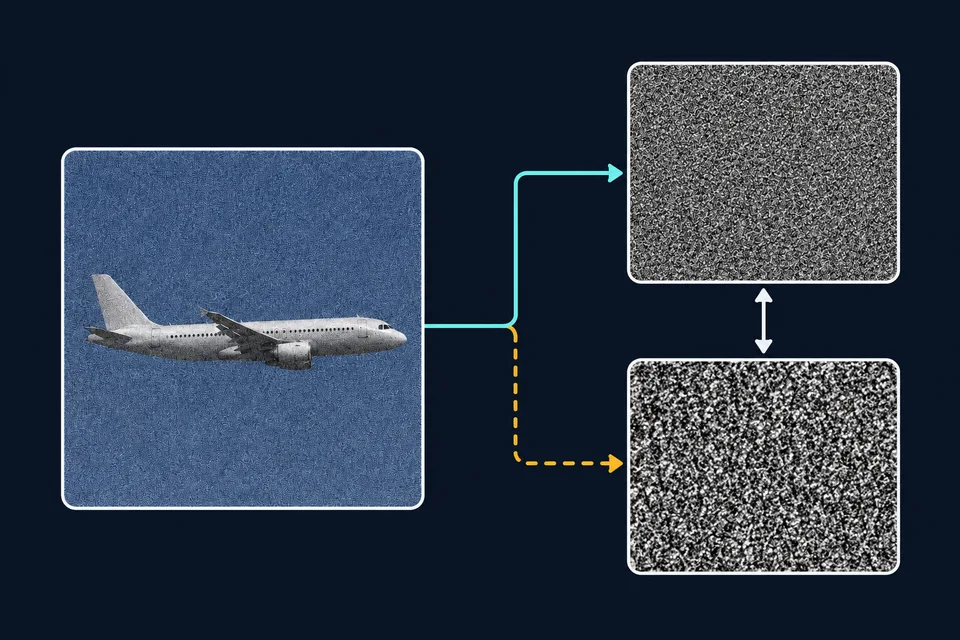
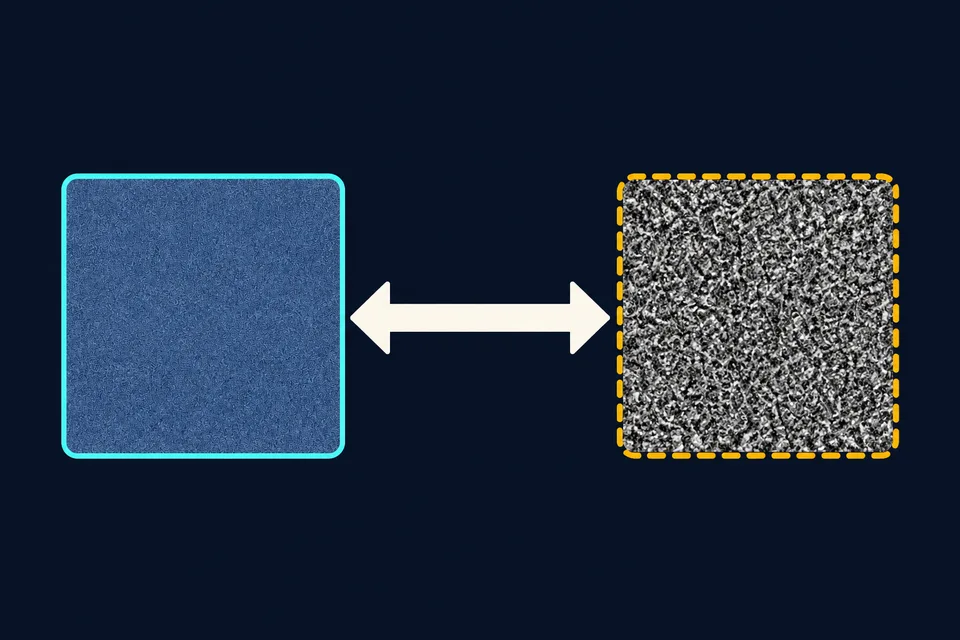
Explain separation and threshold decisions visually

diff --git a/src/components/SeparationLoss.tsx b/src/components/SeparationLoss.tsx
@@ -1,6 +1,5 @@
 'use client'
 
-import { OodScoreHistogram } from '@/components/HeroSignal'
 import ResearchFigure from '@/components/ResearchFigure'
 import { useI18n, type TranslationMap } from '@/lib/i18n'
 import { CIFAR_LAMBDA_SWEEP } from '@/lib/ood-explorer-data'
@@ -36,19 +35,22 @@ const copy = {
   predict: { en: 'Predict the noise twice', de: 'Rauschen zweimal vorhersagen', fr: 'Prédire le bruit deux fois', es: 'Predecir el ruido dos veces', ar: 'تنبّأ بالضوضاء مرتين' },
   separate: { en: 'Separate the predictions', de: 'Vorhersagen trennen', fr: 'Séparer les prédictions', es: 'Separar las predicciones', ar: 'افصل بين التنبؤين' },
   decide: { en: 'Apply the threshold', de: 'Schwelle anwenden', fr: 'Appliquer le seuil', es: 'Aplicar el umbral', ar: 'طبّق العتبة' },
-  chartCaption: {
-    en: 'Recorded scores · seed 42',
-    de: 'Aufgezeichnete Scores · Seed 42',
-    fr: 'Scores enregistrés · graine 42',
-    es: 'Puntuaciones registradas · semilla 42',
-    ar: 'الدرجات المسجلة · البذرة 42',
+  score: { en: 'Anomaly score', de: 'Anomaliewert', fr: 'Score d’anomalie', es: 'Puntuación de anomalía', ar: 'درجة الشذوذ' },
+  compare: {
+    en: 'Compare with threshold',
+    de: 'Mit Schwelle vergleichen',
+    fr: 'Comparer au seuil',
+    es: 'Comparar con el umbral',
+    ar: 'قارن بالعتبة',
   },
+  familiar: { en: 'Familiar', de: 'Vertraut', fr: 'Familière', es: 'Familiar', ar: 'مألوفة' },
+  unfamiliar: { en: 'Flag as unfamiliar', de: 'Als unbekannt markieren', fr: 'Signaler comme inconnue', es: 'Marcar como desconocida', ar: 'صنّفها كغير مألوفة' },
   decision: {
-    en: 'A score at or above the calibrated threshold is flagged as unfamiliar. The shaded overlap shows where either group can produce similar scores.',
-    de: 'Ein Wert ab der kalibrierten Schwelle wird als unbekannt markiert. Die schattierte Überlappung zeigt, wo beide Gruppen ähnliche Werte erzielen können.',
-    fr: 'Un score égal ou supérieur au seuil calibré signale une image inconnue. La zone ombrée indique où les deux groupes peuvent obtenir des scores similaires.',
-    es: 'Una puntuación igual o superior al umbral calibrado señala una imagen desconocida. La zona sombreada muestra dónde ambos grupos pueden obtener puntuaciones similares.',
-    ar: 'تُصنَّف الصورة على أنها غير مألوفة إذا بلغت درجتها العتبة المعايرة أو تجاوزتها. وتوضح المنطقة المظللة أين يمكن أن تحصل المجموعتان على درجات متقاربة.',
+    en: 'Subtract the two noise prediction errors to get the score, then compare it with the calibrated threshold.',
+    de: 'Ziehe die beiden Fehler der Rauschvorhersage voneinander ab und vergleiche den Wert mit der kalibrierten Schwelle.',
+    fr: 'Soustraire les deux erreurs de prédiction du bruit pour obtenir le score, puis le comparer au seuil calibré.',
+    es: 'Resta los dos errores de predicción del ruido para obtener la puntuación y compárala con el umbral calibrado.',
+    ar: 'احسب الفرق بين خطأَي التنبؤ بالضوضاء للحصول على الدرجة، ثم قارنها بالعتبة المعايرة.',
   },
   details: { en: 'Technical details', de: 'Technische Details', fr: 'Détails techniques', es: 'Detalles técnicos', ar: 'التفاصيل التقنية' },
   symbols: {
@@ -101,10 +103,23 @@ export default function SeparationLoss() {
         ))}
         <li className="cd-rfc-decision">
           <h5>{t(copy.decide)}</h5>
-          <figure className="cd-rfc-chart">
-            <OodScoreHistogram showOverlap />
-            <figcaption>{t(copy.chartCaption)} · <bdi dir="ltr">CIFAR-10 · λ = 0.02 · K = 100</bdi></figcaption>
-          </figure>
+          <div className="cd-rfc-rule">
+            <div className="cd-rfc-score">
+              <span>{t(copy.score)}</span>
+              <bdi dir="ltr">e₀ − e₁</bdi>
+            </div>
+            <div className="cd-rfc-compare">{t(copy.compare)} <bdi>τ</bdi></div>
+            <div className="cd-rfc-outcomes">
+              <div>
+                <bdi dir="ltr">&lt; τ</bdi>
+                <span>{t(copy.familiar)}</span>
+              </div>
+              <div>
+                <bdi dir="ltr">≥ τ</bdi>
+                <span>{t(copy.unfamiliar)}</span>
+              </div>
+            </div>
+          </div>
           <p>{t(copy.decision)}</p>
         </li>
       </ol>
@@ -114,7 +129,7 @@ export default function SeparationLoss() {
           <summary>{t(copy.details)}</summary>
           <div className="cd-rfc-compact-formula" dir="ltr">
             <span>L<sub>total</sub> = L<sub>denoise</sub> + λ L<sub>sep</sub></span>
-            <span>s<sub>OOD</sub>(x) = e₀(x) − e₁(x) ≥ τ</span>
+            <span>s<sub>OOD</sub>(x) = e₀(x) − e₁(x)</span>
           </div>
           <p>{t(copy.symbols)}</p>
         </details>

diff --git a/src/components/HeroSignal.tsx b/src/components/HeroSignal.tsx
@@ -44,8 +44,6 @@ const copy = {
     ar: 'خارج التوزيع · 9 فئات أخرى',
   },
   threshold: { en: 'τ @ TPR 95', de: 'τ @ TPR 95', fr: 'τ @ TPR 95', es: 'τ @ TPR 95', ar: 'τ @ TPR 95' },
-  calibratedThreshold: { en: 'Calibrated threshold', de: 'Kalibrierte Schwelle', fr: 'Seuil calibré', es: 'Umbral calibrado', ar: 'العتبة المعايرة' },
-  overlap: { en: 'Score overlap', de: 'Überlappung', fr: 'Chevauchement', es: 'Solapamiento', ar: 'تداخل الدرجات' },
   axis: {
     en: 'anomaly score →',
     de: 'Anomaliescore →',
@@ -108,43 +106,12 @@ function stepArea(pct: readonly number[], yMax: number): string {
   return d
 }
 
-export function OodScoreHistogram({ showOverlap = false }: { showOverlap?: boolean }) {
+export default function HeroSignal() {
   const { lang, t } = useI18n()
   const ds = BENCHMARK_DATASETS.within_cifar
   const h = ds.histogram
   const yMax = Math.max(...h.id_pct, ...h.ood_pct)
   const tauX = PAD_X + ((ds.tauTpr95 - h.lo) / (h.hi - h.lo)) * (W - PAD_X * 2)
-
-  return (
-    <div dir="ltr">
-      <div className="cd-signal-plot">
-        <svg viewBox={`0 0 ${W} ${H}`} role="img" aria-label={t(copy.chartLabel)} preserveAspectRatio="none">
-          {[0.25, 0.5, 0.75].map((f) => (
-            <line key={f} x1={PAD_X} x2={W - PAD_X} y1={BASE - f * (BASE - 8)} y2={BASE - f * (BASE - 8)} className="cd-signal-grid" />
-          ))}
-          <rect x={tauX} y={0} width={W - PAD_X - tauX} height={BASE} className="cd-signal-flag" />
-          <path d={stepArea(h.ood_pct, yMax)} className="cd-signal-ood" />
-          <path d={stepArea(h.id_pct, yMax)} className="cd-signal-id" />
-          {showOverlap && <path d={stepArea(h.id_pct.map((value, index) => Math.min(value, h.ood_pct[index])), yMax)} className="cd-rfc-overlap" />}
-          <line x1={PAD_X} x2={W - PAD_X} y1={BASE} y2={BASE} className="cd-signal-axis" />
-          <line x1={tauX} x2={tauX} y1={2} y2={BASE} className="cd-signal-tau" />
-        </svg>
-        <span className="cd-signal-tau-label" style={{ left: `${(tauX / W) * 100}%` }}>{t(showOverlap ? copy.calibratedThreshold : copy.threshold)}</span>
-      </div>
-      <div className="cd-signal-axis-label">{t(copy.axis)}</div>
-
-      <ul className="cd-signal-legend" dir={showOverlap && lang === 'ar' ? 'rtl' : undefined}>
-        <li><span className="sw sw-id" aria-hidden="true" />{t(copy.id)}</li>
-        <li><span className="sw sw-ood" aria-hidden="true" />{t(copy.ood)}</li>
-        {showOverlap && <li><span className="sw sw-overlap" aria-hidden="true" />{t(copy.overlap)}</li>}
-      </ul>
-    </div>
-  )
-}
-
-export default function HeroSignal() {
-  const { lang, t } = useI18n()
-  const ds = BENCHMARK_DATASETS.within_cifar
 
   return (
     <figure className="cd-signal" dir="ltr">
@@ -157,7 +124,25 @@ export default function HeroSignal() {
       </div>
       <p className="cd-signal-title">{t(copy.title)}</p>
 
-      <OodScoreHistogram />
+      <div className="cd-signal-plot">
+        <svg viewBox={`0 0 ${W} ${H}`} role="img" aria-label={t(copy.chartLabel)} preserveAspectRatio="none">
+          {[0.25, 0.5, 0.75].map((f) => (
+            <line key={f} x1={PAD_X} x2={W - PAD_X} y1={BASE - f * (BASE - 8)} y2={BASE - f * (BASE - 8)} className="cd-signal-grid" />
+          ))}
+          <rect x={tauX} y={0} width={W - PAD_X - tauX} height={BASE} className="cd-signal-flag" />
+          <path d={stepArea(h.ood_pct, yMax)} className="cd-signal-ood" />
+          <path d={stepArea(h.id_pct, yMax)} className="cd-signal-id" />
+          <line x1={PAD_X} x2={W - PAD_X} y1={BASE} y2={BASE} className="cd-signal-axis" />
+          <line x1={tauX} x2={tauX} y1={2} y2={BASE} className="cd-signal-tau" />
+        </svg>
+        <span className="cd-signal-tau-label" style={{ left: `${(tauX / W) * 100}%` }}>{t(copy.threshold)}</span>
+      </div>
+      <div className="cd-signal-axis-label">{t(copy.axis)}</div>
+
+      <ul className="cd-signal-legend">
+        <li><span className="sw sw-id" aria-hidden="true" />{t(copy.id)}</li>
+        <li><span className="sw sw-ood" aria-hidden="true" />{t(copy.ood)}</li>
+      </ul>
 
       {SWEEP_002 && (
         <div className="cd-signal-mean">

diff --git a/src/app/globals.css b/src/app/globals.css
@@ -1343,7 +1343,7 @@ body::before {
 .cd-rfc-result > div:last-child dd { color: var(--cd-accent); }
 .cd-rfc-evidence > p { margin-block-start: 6px; color: var(--cd-fg2); font-size: 12px; }
 .cd-rfc-flow {
-  display: grid; grid-template-columns: repeat(2, minmax(0, 1fr)) minmax(0, 1.2fr); gap: 12px;
+  display: grid; grid-template-columns: repeat(3, minmax(0, 1fr)); gap: 12px;
   list-style: none; margin-block-end: 16px; padding: 0;
 }
 .cd-rfc-flow > li {
@@ -1369,19 +1369,54 @@ body::before {
   box-shadow: 0 0 0 2px var(--cd-accent), 0 14px 32px color-mix(in srgb, var(--cd-bg) 28%, transparent);
   transform: translateY(-2px);
 }
-.cd-rfc-chart {
-  min-width: 0; padding: 6px 10px 10px; border-radius: 6px;
-  border: 1px solid var(--cd-b0); background: var(--cd-bg);
+.cd-rfc-rule {
+  display: grid; align-content: center; justify-items: center;
+  inline-size: 100%; min-inline-size: 0; aspect-ratio: 3 / 2;
+  padding: 12px 8px; text-align: center;
+  border: 1px solid var(--cd-b0); border-radius: 6px; background: var(--cd-bg);
+  font-size: 12px; line-height: 1.35; color: var(--cd-fg1);
 }
-.cd-rfc-chart .cd-signal-plot svg { height: clamp(94px, 10vw, 130px); }
-.cd-rfc-chart .cd-signal-id, .cd-rfc-chart .cd-signal-ood, .cd-rfc-chart .cd-signal-flag { animation: none; }
-.cd-rfc-chart .cd-signal-ood { stroke-dasharray: 4 2; }
-.cd-rfc-chart .cd-signal-legend { gap: 4px 8px; margin: 6px 0; font-size: 11px; }
-.cd-rfc-chart .sw-ood { border-style: dashed; }
-.cd-rfc-overlap { fill: color-mix(in srgb, var(--cd-fg1) 55%, transparent); }
-.cd-rfc-chart .sw-overlap { border-color: var(--cd-fg2); background: color-mix(in srgb, var(--cd-fg1) 55%, transparent); }
-.cd-rfc-chart figcaption { color: var(--cd-fg2); font-size: 11px; line-height: 1.5; }
-.cd-rfc-chart figcaption bdi { white-space: nowrap; }
+.cd-rfc-rule bdi {
+  font-family: var(--font-mono, 'JetBrains Mono', monospace);
+  font-weight: 650; white-space: nowrap;
+}
+.cd-rfc-score {
+  display: grid; gap: 2px; padding: 6px 14px;
+  border: 1px solid var(--cd-b1); border-radius: 6px; background: var(--cd-surf);
+  color: var(--cd-fg2);
+}
+.cd-rfc-score bdi { color: var(--cd-fg1); font-size: 16px; }
+.cd-rfc-compare {
+  display: grid; grid-auto-flow: column; align-items: baseline; gap: 4px;
+  position: relative; margin-block: 10px; padding: 5px 8px;
+  border: 1px solid var(--cd-b1); border-radius: 6px; background: var(--cd-surf);
+}
+.cd-rfc-compare::before,
+.cd-rfc-compare::after,
+.cd-rfc-outcomes > div::before {
+  content: ''; position: absolute; inset-inline-start: calc(50% - 0.5px);
+  inline-size: 1px; block-size: 11px; background: var(--cd-fg3);
+}
+.cd-rfc-compare::before, .cd-rfc-outcomes > div::before { inset-block-end: 100%; }
+.cd-rfc-compare::after { inset-block-start: 100%; }
+.cd-rfc-outcomes {
+  position: relative; display: grid; grid-template-columns: repeat(2, minmax(0, 1fr));
+  inline-size: min(100%, 26rem); padding-block-start: 10px;
+}
+.cd-rfc-outcomes::before {
+  content: ''; position: absolute; inset-block-start: 0; inset-inline: 25%;
+  border-block-start: 1px solid var(--cd-fg3);
+}
+.cd-rfc-outcomes > div {
+  --outcome-color: var(--cd-accent);
+  position: relative; display: grid; align-content: start; gap: 3px;
+  margin-inline: 4px; padding: 6px 4px;
+  border: 1px solid color-mix(in srgb, var(--outcome-color) 55%, var(--cd-b1)); border-radius: 6px;
+  background: color-mix(in srgb, var(--outcome-color) 7%, var(--cd-bg));
+  overflow-wrap: anywhere;
+}
+.cd-rfc-outcomes > div:last-child { --outcome-color: var(--cd-warn); }
+.cd-rfc-outcomes bdi { color: var(--outcome-color); font-size: 15px; }
 .cd-rfc-actions { display: grid; gap: 12px; justify-items: start; }
 .cd-rfc-actions details { max-width: 100%; color: var(--cd-fg2); font-size: 13px; }
 .cd-rfc-actions summary { cursor: pointer; color: var(--cd-fg1); font-weight: 600; }
@@ -1396,6 +1431,7 @@ body::before {
 @media (min-width: 769px) and (max-width: 960px) {
   .cd-rfc-flow { grid-template-columns: repeat(2, minmax(0, 1fr)); }
   .cd-rfc-decision { grid-column: 1 / -1; }
+  .cd-rfc-rule { aspect-ratio: auto; }
 }
 
 /* ── WRITING SECTION ── */

diff --git a/src/lib/research-figures.ts b/src/lib/research-figures.ts
@@ -126,11 +126,11 @@ export const separationIllustrations = [
     width: 960,
     height: 640,
     alt: {
-      en: 'A double-headed arrow marks a widening gap between the two noise predictions for the same airplane image.',
-      de: 'Ein Doppelpfeil zeigt den größer werdenden Abstand zwischen den beiden Rauschvorhersagen für dasselbe Flugzeugbild.',
-      fr: 'Une flèche à deux pointes montre l’écart croissant entre les deux prédictions de bruit pour la même image d’avion.',
-      es: 'Una flecha de doble punta muestra la distancia creciente entre las dos predicciones de ruido para la misma imagen del avión.',
-      ar: 'يشير سهم برأسين إلى اتساع المسافة بين تنبؤي الضوضاء للصورة نفسها.',
+      en: 'Two noise patterns sit side by side with a large horizontal arrow pointing outward toward both patterns, showing the growing difference.',
+      de: 'Zwei Rauschmuster stehen nebeneinander. Ein großer waagerechter Doppelpfeil zeigt den wachsenden Abstand zwischen ihnen.',
+      fr: 'Deux motifs de bruit sont côte à côte. Une grande flèche horizontale à deux pointes montre l’écart croissant entre eux.',
+      es: 'Dos patrones de ruido aparecen lado a lado. Una gran flecha horizontal de doble punta muestra la separación creciente.',
+      ar: 'يظهر نمطان من الضوضاء جنبًا إلى جنب، وبينهما سهم أفقي كبير برأسين يوضح اتساع الفرق بينهما.',
     },
     caption: {
       en: 'During training, separation loss increases the difference between the two noise predictions.',
